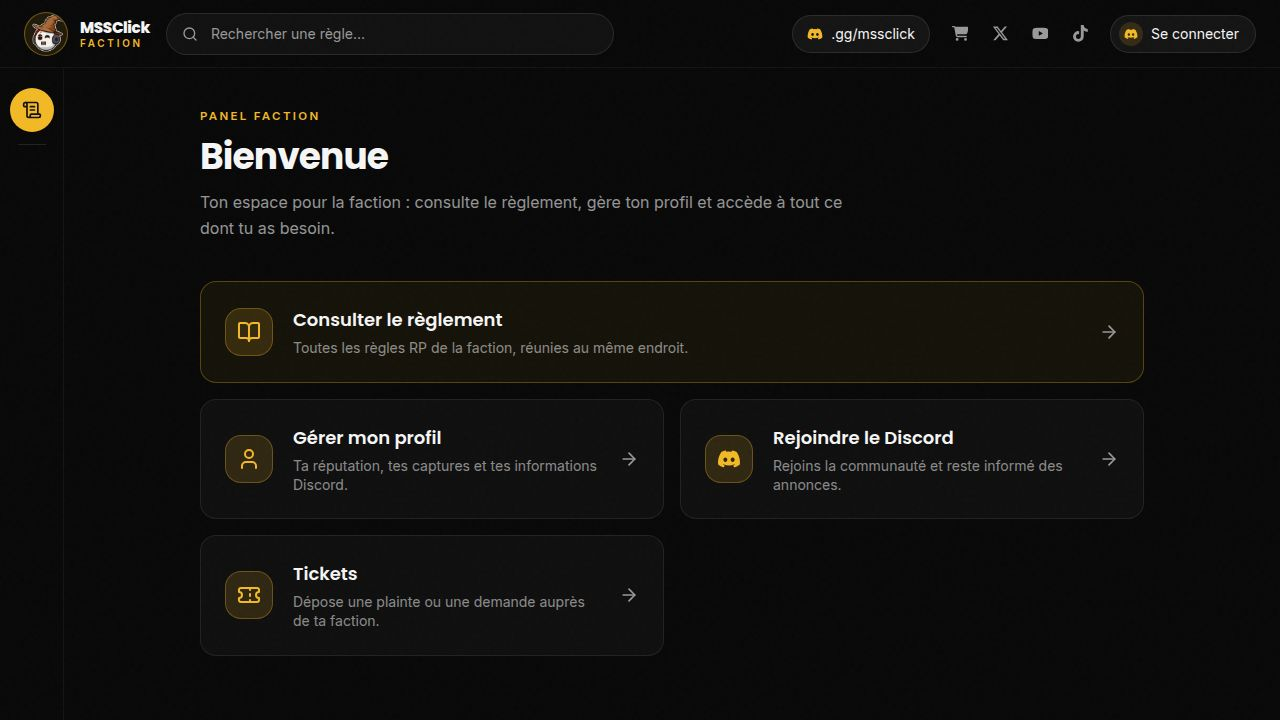
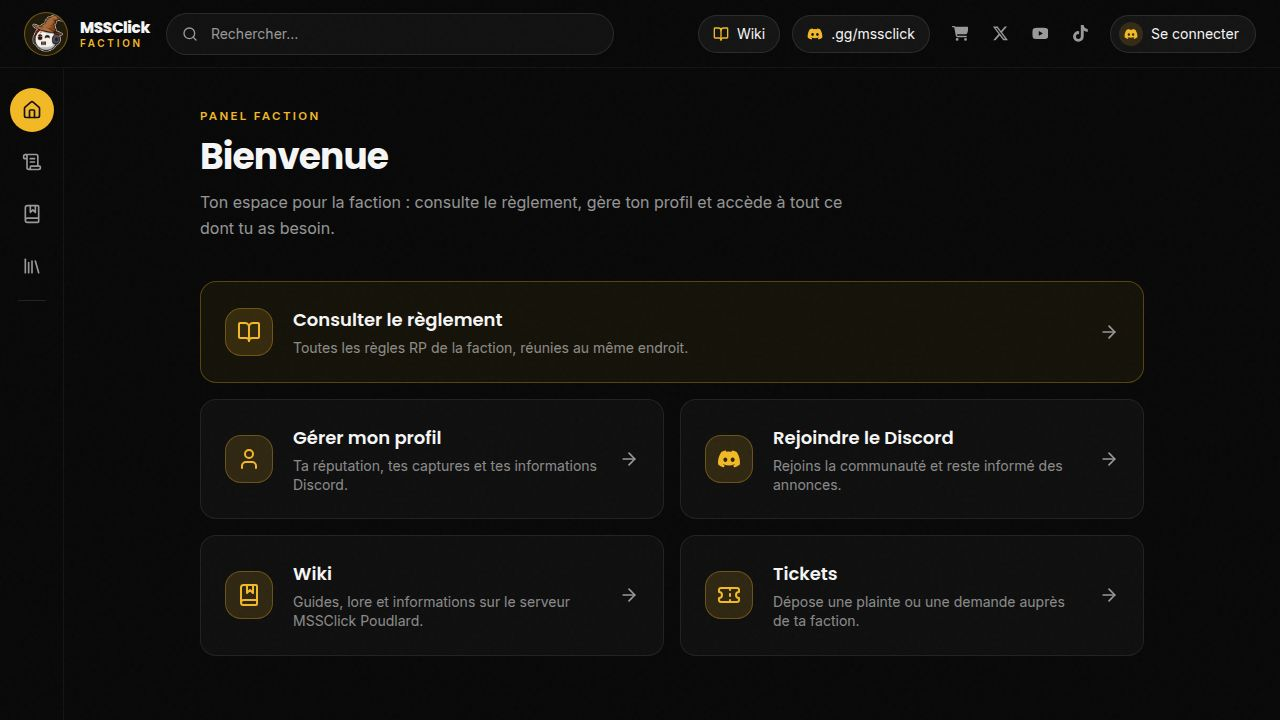
Expand search functionality to cover all site content
Update search component to include navigation, lore, and user-specific pages, modify the dropdown to display categorized results, and adjust input placeholder.

Replit-Commit-Author: Agent
Replit-Commit-Session-Id: dda6c234-3602-4b8b-b132-40a891e2d26c
Replit-Commit-Checkpoint-Type: full_checkpoint
Replit-Commit-Event-Id: 3b876868-649e-4ce8-8a74-7dc7d78a9026
Replit-Commit-Screenshot-Url: https://storage.googleapis.com/screenshot-production-us-central1/4aab2e2f-4a71-4362-9586-69ccf6b59a9d/dda6c234-3602-4b8b-b132-40a891e2d26c/bAxlE8d
Replit-Helium-Checkpoint-Created: true

diff --git a/artifacts/reglement/src/components/Layout.tsx b/artifacts/reglement/src/components/Layout.tsx
@@ -55,7 +55,7 @@ export default function Layout({ children }: { children: ReactNode }) {
   const [location] = useLocation();
   const { query, setQuery } = useSearch();
   const { data: content } = useContent();
-  const { user } = useAuth();
+  const { user, isAdmin } = useAuth();
   const ruleGroups = content?.groups ?? [];
   const mainRef = useRef<HTMLElement | null>(null);
   const railRef = useRef<HTMLDivElement | null>(null);
@@ -95,11 +95,65 @@ export default function Layout({ children }: { children: ReactNode }) {
   }, []);
 
   const q = query.trim().toLowerCase();
+
+  type SearchItem = {
+    key: string;
+    title: string;
+    subtitle: string;
+    href: string;
+    external?: boolean;
+  };
+
+  const allSearchItems = useMemo<SearchItem[]>(() => {
+    const items: SearchItem[] = [];
+
+    // Pages de règles
+    for (const g of ruleGroups) {
+      for (const p of g.pages) {
+        items.push({
+          key: `rule:${g.slug}/${p.slug}`,
+          title: p.title,
+          subtitle: g.title,
+          href: `/${g.slug}/${p.slug}`,
+        });
+      }
+    }
+
+    // Navigation principale (toujours visible)
+    items.push({ key: "nav:accueil", title: "Accueil", subtitle: "Navigation", href: "/" });
+    items.push({ key: "nav:reglement", title: "Règlement", subtitle: "Navigation", href: "/reglement" });
+    items.push({ key: "nav:wiki", title: "Wiki", subtitle: "Lien externe", href: WIKI_BASE, external: true });
+
+    // Pages liées au compte
+    if (user) {
+      items.push({ key: "nav:profil", title: "Mon profil", subtitle: "Mon compte", href: "/profil" });
+      items.push({ key: "nav:tickets", title: "Tickets", subtitle: "Mon compte", href: "/tickets" });
+    }
+    if (user && user.gerantFactions.length > 0) {
+      items.push({ key: "nav:gerant", title: "Gérer ma faction", subtitle: "Mon compte", href: "/gerant" });
+    }
+    if (isAdmin) {
+      items.push({ key: "nav:admin", title: "Administration", subtitle: "Mon compte", href: "/admin" });
+    }
+
+    // Lores
+    for (const lore of LORES) {
+      items.push({
+        key: `lore:${lore.slug}`,
+        title: `Lore ${lore.label}`,
+        subtitle: "Lores — Factions",
+        href: `${WIKI_BASE}/lore-faction/${lore.slug}`,
+        external: true,
+      });
+    }
+
+    return items;
+  }, [ruleGroups, user, isAdmin]);
+
   const searchResults = q
-    ? ruleGroups.flatMap((g) =>
-        g.pages
-          .filter((p) => p.title.toLowerCase().includes(q))
-          .map((p) => ({ group: g, page: p })),
+    ? allSearchItems.filter((item) =>
+        item.title.toLowerCase().includes(q) ||
+        item.subtitle.toLowerCase().includes(q),
       )
     : [];
 
@@ -134,10 +188,10 @@ export default function Layout({ children }: { children: ReactNode }) {
             <Search className="absolute left-4 w-4 h-4 text-muted-foreground pointer-events-none" />
             <input
               type="search"
-              aria-label="Rechercher une règle"
+              aria-label="Rechercher"
               value={query}
               onChange={(e) => setQuery(e.target.value)}
-              placeholder="Rechercher une règle…"
+              placeholder="Rechercher…"
               className="w-full bg-white/[0.04] border border-white/10 rounded-full py-2.5 pl-11 pr-4 text-sm text-foreground placeholder:text-muted-foreground focus:outline-none focus:border-primary/60 focus:bg-white/[0.06] transition-colors"
             />
           </div>
@@ -145,22 +199,38 @@ export default function Layout({ children }: { children: ReactNode }) {
             <div className="absolute top-full mt-2 left-0 right-0 bg-popover border border-popover-border rounded-xl shadow-2xl shadow-black/60 overflow-hidden z-40 max-h-80 overflow-y-auto">
               {searchResults.length === 0 ? (
                 <p className="px-4 py-3 text-sm text-muted-foreground">
-                  Aucune page ne correspond.
+                  Aucun résultat pour « {query} ».
                 </p>
               ) : (
-                searchResults.map(({ group, page }) => (
-                  <Link
-                    key={`${group.slug}/${page.slug}`}
-                    href={`/${group.slug}/${page.slug}`}
-                    onClick={() => setQuery("")}
-                    className="flex items-center justify-between gap-3 px-4 py-2.5 text-sm hover:bg-white/5 transition-colors"
-                  >
-                    <span className="text-foreground">{page.title}</span>
-                    <span className="text-[0.68rem] uppercase tracking-wider text-muted-foreground">
-                      {group.title}
-                    </span>
-                  </Link>
-                ))
+                searchResults.map((item) =>
+                  item.external ? (
+                    <a
+                      key={item.key}
+                      href={item.href}
+                      target="_blank"
+                      rel="noreferrer"
+                      onClick={() => setQuery("")}
+                      className="flex items-center justify-between gap-3 px-4 py-2.5 text-sm hover:bg-white/5 transition-colors"
+                    >
+                      <span className="text-foreground">{item.title}</span>
+                      <span className="text-[0.68rem] uppercase tracking-wider text-muted-foreground">
+                        {item.subtitle}
+                      </span>
+                    </a>
+                  ) : (
+                    <Link
+                      key={item.key}
+                      href={item.href}
+                      onClick={() => setQuery("")}
+                      className="flex items-center justify-between gap-3 px-4 py-2.5 text-sm hover:bg-white/5 transition-colors"
+                    >
+                      <span className="text-foreground">{item.title}</span>
+                      <span className="text-[0.68rem] uppercase tracking-wider text-muted-foreground">
+                        {item.subtitle}
+                      </span>
+                    </Link>
+                  )
+                )
               )}
             </div>
           )}